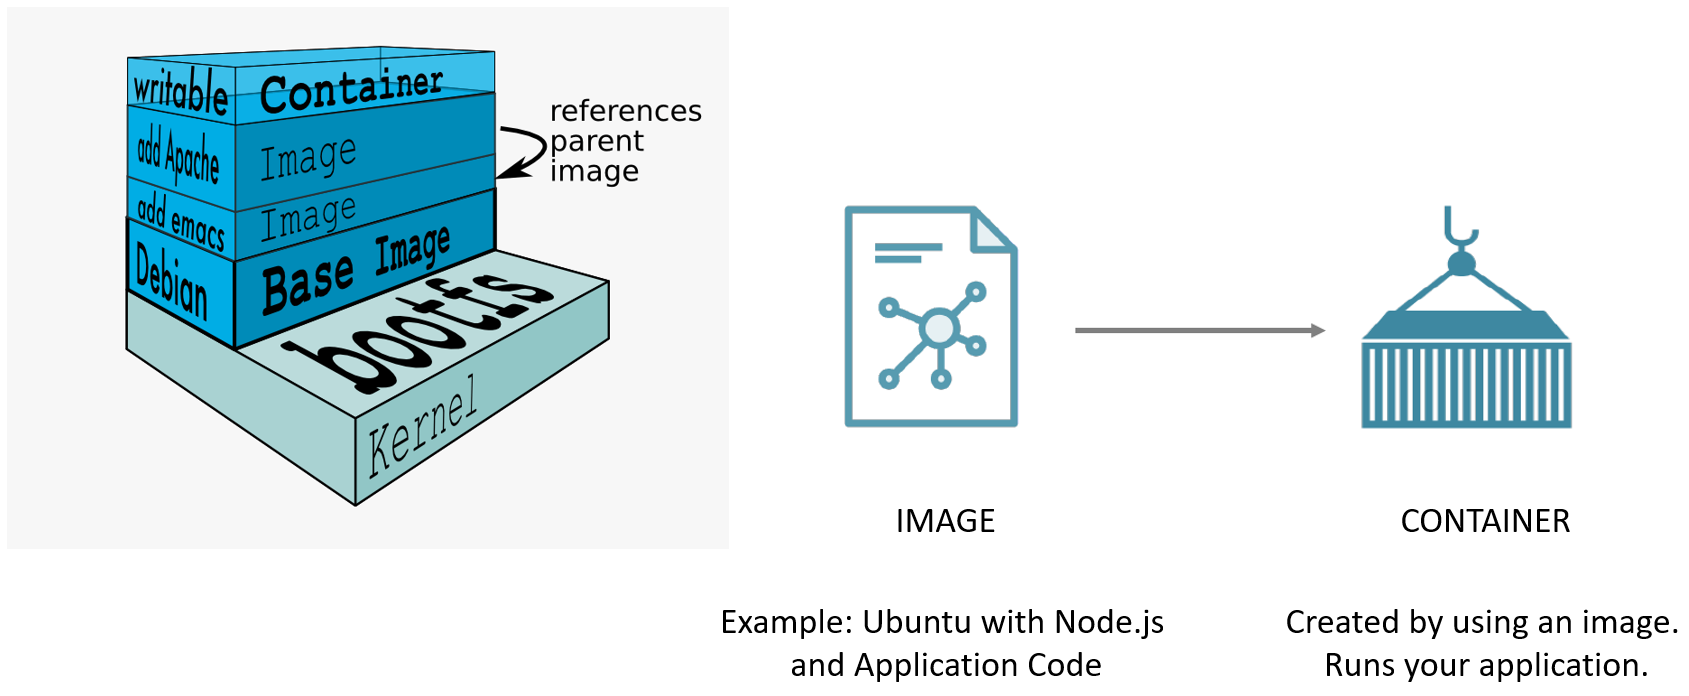
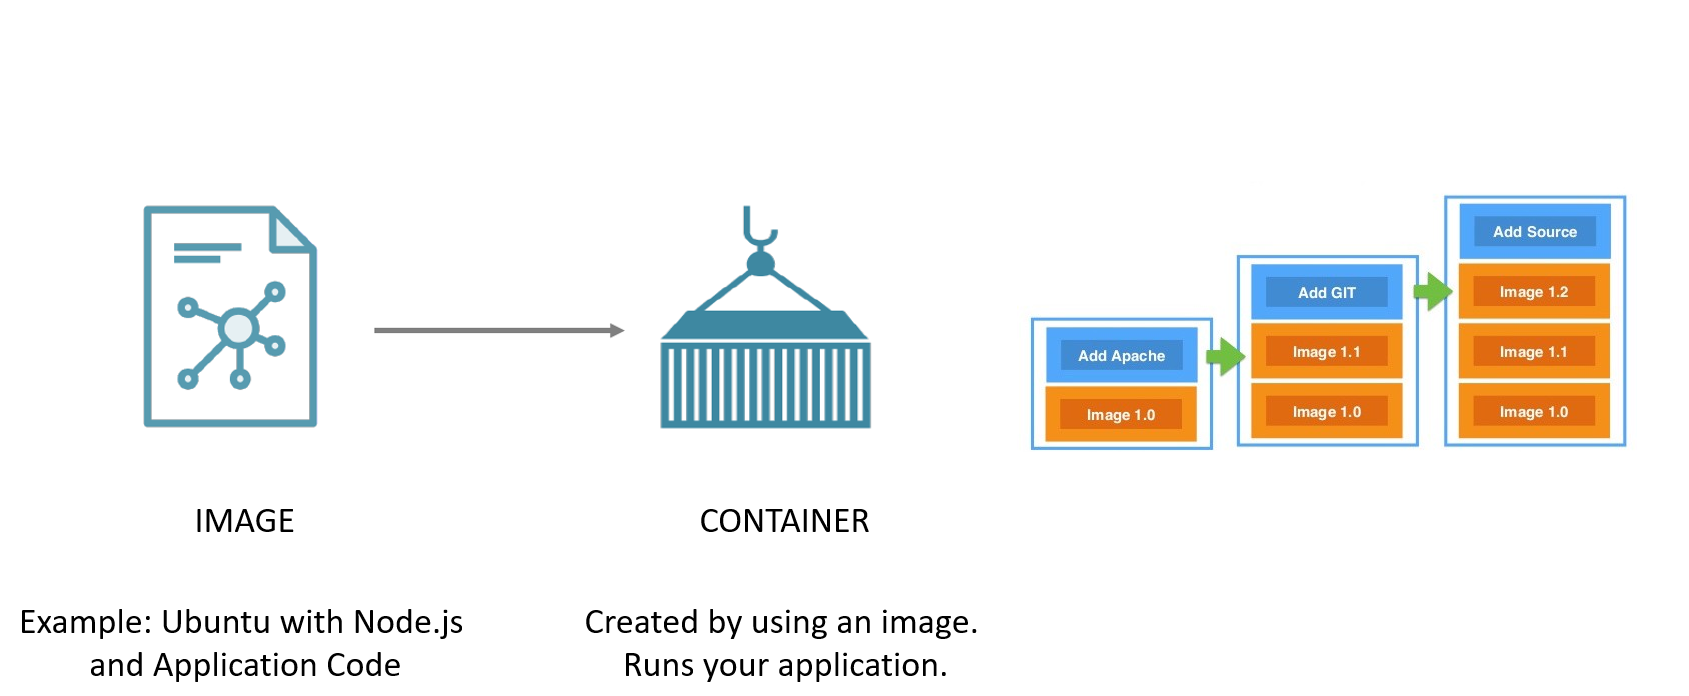
Presentation update

diff --git a/PITCHME.md b/PITCHME.md
@@ -13,8 +13,8 @@ March 2019
 - Storage
 - Build or discover images
 - Compose
-- Swarm
 - gDoc2 Dev environment
+- Swarm
 
 ---
 
@@ -25,7 +25,7 @@ March 2019
 - Container images define the runtime environment
 - Containerized software will always run the same, regardless of the infrastructure
 - Isolated but lightweight since they don't require an OS per application
-- Available on Win & Linux, virtualizes Win & Linux (doesn't have to match)
+- Available on Win, Mac & Linux, virtualizes Win & Linux (doesn't have to match) - _side note: hybrid mode is in the making_
 
 ---
 
@@ -35,9 +35,20 @@ March 2019
 
 ---
 
-### Terminology
+### Terminology and Layers
 
 ![](assets/terminology.png "Terminology")
+
+---
+
+### Setup
+
+- On Windows install [Docker Desktop](https://hub.docker.com/editions/community/docker-ce-desktop-windows)
+- You will need to activate the Hyper-V feature
+- Share the C / D drive, this can be [a bit challenging](https://tomssl.com/2018/01/11/sharing-your-c-drive-with-docker-for-windows-when-using-azure-active-directory-azuread-aad/) in the corporate environment
+- Select to run windows or linux containers
+- _Bonus:_ Modify the ports of gDoc2 API and website to not use any blocked ones (`netsh interface ipv4 show excludedportrange tcp
+`)
 
 ---
 
@@ -66,9 +77,10 @@ Status: Downloaded newer image for nginx:latest
 
 ![](assets/docker-storage.png "Docker Storage")
 
+- Container-internal
+- Tmpfs - in the host system’s memory only (available on linux)
 - Volumes - stored in a part of the host filesystem BUT managed by Docker
 - Bind mount – "shared" folder from the host. Non-Docker processes on the host can modify them at any time
-- Tmpfs - in the host system’s memory only
 
 ---
 
@@ -76,7 +88,7 @@ Status: Downloaded newer image for nginx:latest
 
 - A recipe for building a docker image
 - The Dockerfile is a textfile with commands similar to a batch file
-- `$ docker build .` will execute the commands, creates (read-only) layers and resulting (writable) image
+- `docker build .` will execute the commands, creates (read-only) layers and resulting (writable) image
 
 ```bash
 FROM ubuntu:18.04
@@ -97,9 +109,9 @@ Each layer is the "delta" on top of the previous layer.
 
 ---
 
-### Docker-compose
+### Docker-compose / Stacks
 
-Compose is a tool for defining and running multi-container Docker applications. A YAML file configures the required services.
+Compose is a tool for defining and running multi-container Docker applications. A YAML file configures the required services. _Side note: This is very similar to stacks in docker swarm_
 
 ```yaml
 version: '3'
@@ -124,26 +136,13 @@ Attaching to composetest_web_1, composetest_redis_1
 
 ---
 
-### Docker Swarm
-
-- Cluster management integrated with Docker Engine
-- Scaling
-- Load balancing
-- Self-Healing
-- Secure by default
-- Rolling updates
-
-![](assets/swarm.png "Docker swarm")
-
----
-
 ### gDoc2 Dev environment
 
 - 3 custom made images
-  - Seq
   - MSSQL
   - Conference Portal
-- Based on the (same) latest Windows Server Core
+  - Seq
+- Based on the (same) latest Windows Server Core version
 - Setting default values, attaching DBs, installing certificate
 - Published in a (secure) container registry (ungtt.azurecr.io)
 - One simple command to run:
@@ -151,3 +150,33 @@ Attaching to composetest_web_1, composetest_redis_1
 ```bash
 $ docker-compose up
 ```
+
+### Dockerize ASP.NET Core application (bonus)
+
+1) Project right-click - Add - Container Orchestrator support
+2) Select Windows or Linux
+3) Dockerfile and docker-compose are created (incl. development setup)
+4) F5 to run
+
+Example of practical use can be found here: 
+[https://github.com/pergerch/MyBoilerplate](https://github.com/pergerch/MyBoilerplate)
+
+Showcases ENV variables / options pattern, health checks, shared volume
+
+---
+
+### Docker Swarm
+
+- Cluster management integrated with Docker Engine
+- Scaling & self-healing
+- Load balancing through multi-hostt networking
+- Secure by default (TLS communication enforced)
+- Rolling updates
+- Hybrid swarm setup possible (mixing win and linux nodes)
+- Powerful management & monitoring tools available ([Portainer](https://www.portainer.io/), [Traefik](https://traefik.io/), [Swarmstack](https://github.com/swarmstack/swarmstack), etc.)
+
+![](assets/swarm.png "Docker swarm")
+
+---
+
+### Discussion and Questions?
